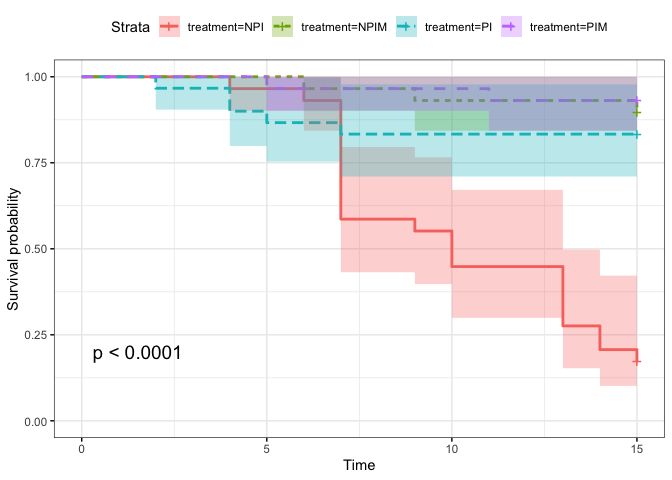
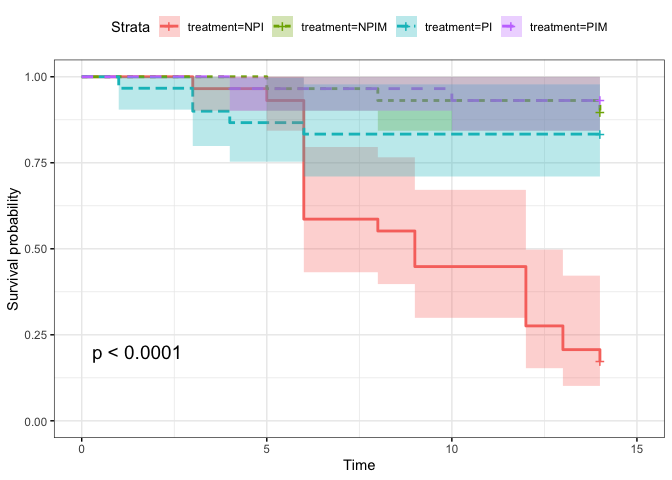
adding analysis

diff --git a/Infection_survival_analyses/20221022/2022-10-22-innubila-food-test-2.md b/Infection_survival_analyses/20221022/2022-10-22-innubila-food-test-2.md
@@ -83,7 +83,7 @@ return(results)
 innubila_food_2<-read.csv("~/Desktop/Github/Unckless_Lab_Resources/Infection_survival_analyses/20221022/20221022_innubila_food_vial_test_2.csv")
 
 # Subset dataframe to be only the columns needed
-innubila_food_2_sub<-innubila_food_2[,c(1,4,12,12:26)]
+innubila_food_2_sub<-innubila_food_2[,c(1,4,12:26)]
 ```
 
 ### Convert the dataframe to long and tidy format using function defined above
@@ -106,3 +106,53 @@ ggsurvplot(innubila_food_2_sub_convert_fit,
 ```
 
 ![](2022-10-22-innubila-food-test-2_files/figure-gfm/unnamed-chunk-5-1.png)<!-- -->
+
+### Separate out based on poke treatment
+
+``` r
+# Subset dataframe to be only the rows for not poked flies
+innubila_food_2_nopoke<-innubila_food_2_sub[c(1,4:7,11),]
+
+# Subset dataframe to be only the rows for poked flies
+innubila_food_2_CCM<-innubila_food_2_sub[c(2:3,8:10,12),]
+```
+
+### Convert the dataframe to long and tidy format using function defined above
+
+``` r
+# no poke
+innubila_food_2_nopoke_convert<-convert_df(innubila_food_2_nopoke)
+
+# CCM
+innubila_food_2_CCM_convert<-convert_df(innubila_food_2_CCM)
+```
+
+### Make full plot for No Poke
+
+``` r
+innubila_food_2_nopoke_convert_fit<- survfit(Surv(dead, status) ~ treatment, data=innubila_food_2_nopoke_convert)
+ggsurvplot(innubila_food_2_nopoke_convert_fit,
+          pval = TRUE, conf.int = TRUE,
+          #risk.table = TRUE, # Add risk table
+          #risk.table.col = "strata", # Change risk table color by groups
+          linetype = "strata", # Change line type by groups
+          # surv.median.line = "hv", # Specify median survival
+          ggtheme = theme_bw()) # Change ggplot2 theme
+```
+
+![](2022-10-22-innubila-food-test-2_files/figure-gfm/unnamed-chunk-8-1.png)<!-- -->
+
+### Make full plot for CCM
+
+``` r
+innubila_food_2_CCM_convert_fit<- survfit(Surv(dead, status) ~ treatment, data=innubila_food_2_CCM_convert)
+ggsurvplot(innubila_food_2_CCM_convert_fit,
+          pval = TRUE, conf.int = TRUE,
+          #risk.table = TRUE, # Add risk table
+          #risk.table.col = "strata", # Change risk table color by groups
+          linetype = "strata", # Change line type by groups
+          # surv.median.line = "hv", # Specify median survival
+          ggtheme = theme_bw()) # Change ggplot2 theme
+```
+
+![](2022-10-22-innubila-food-test-2_files/figure-gfm/unnamed-chunk-9-1.png)<!-- -->
